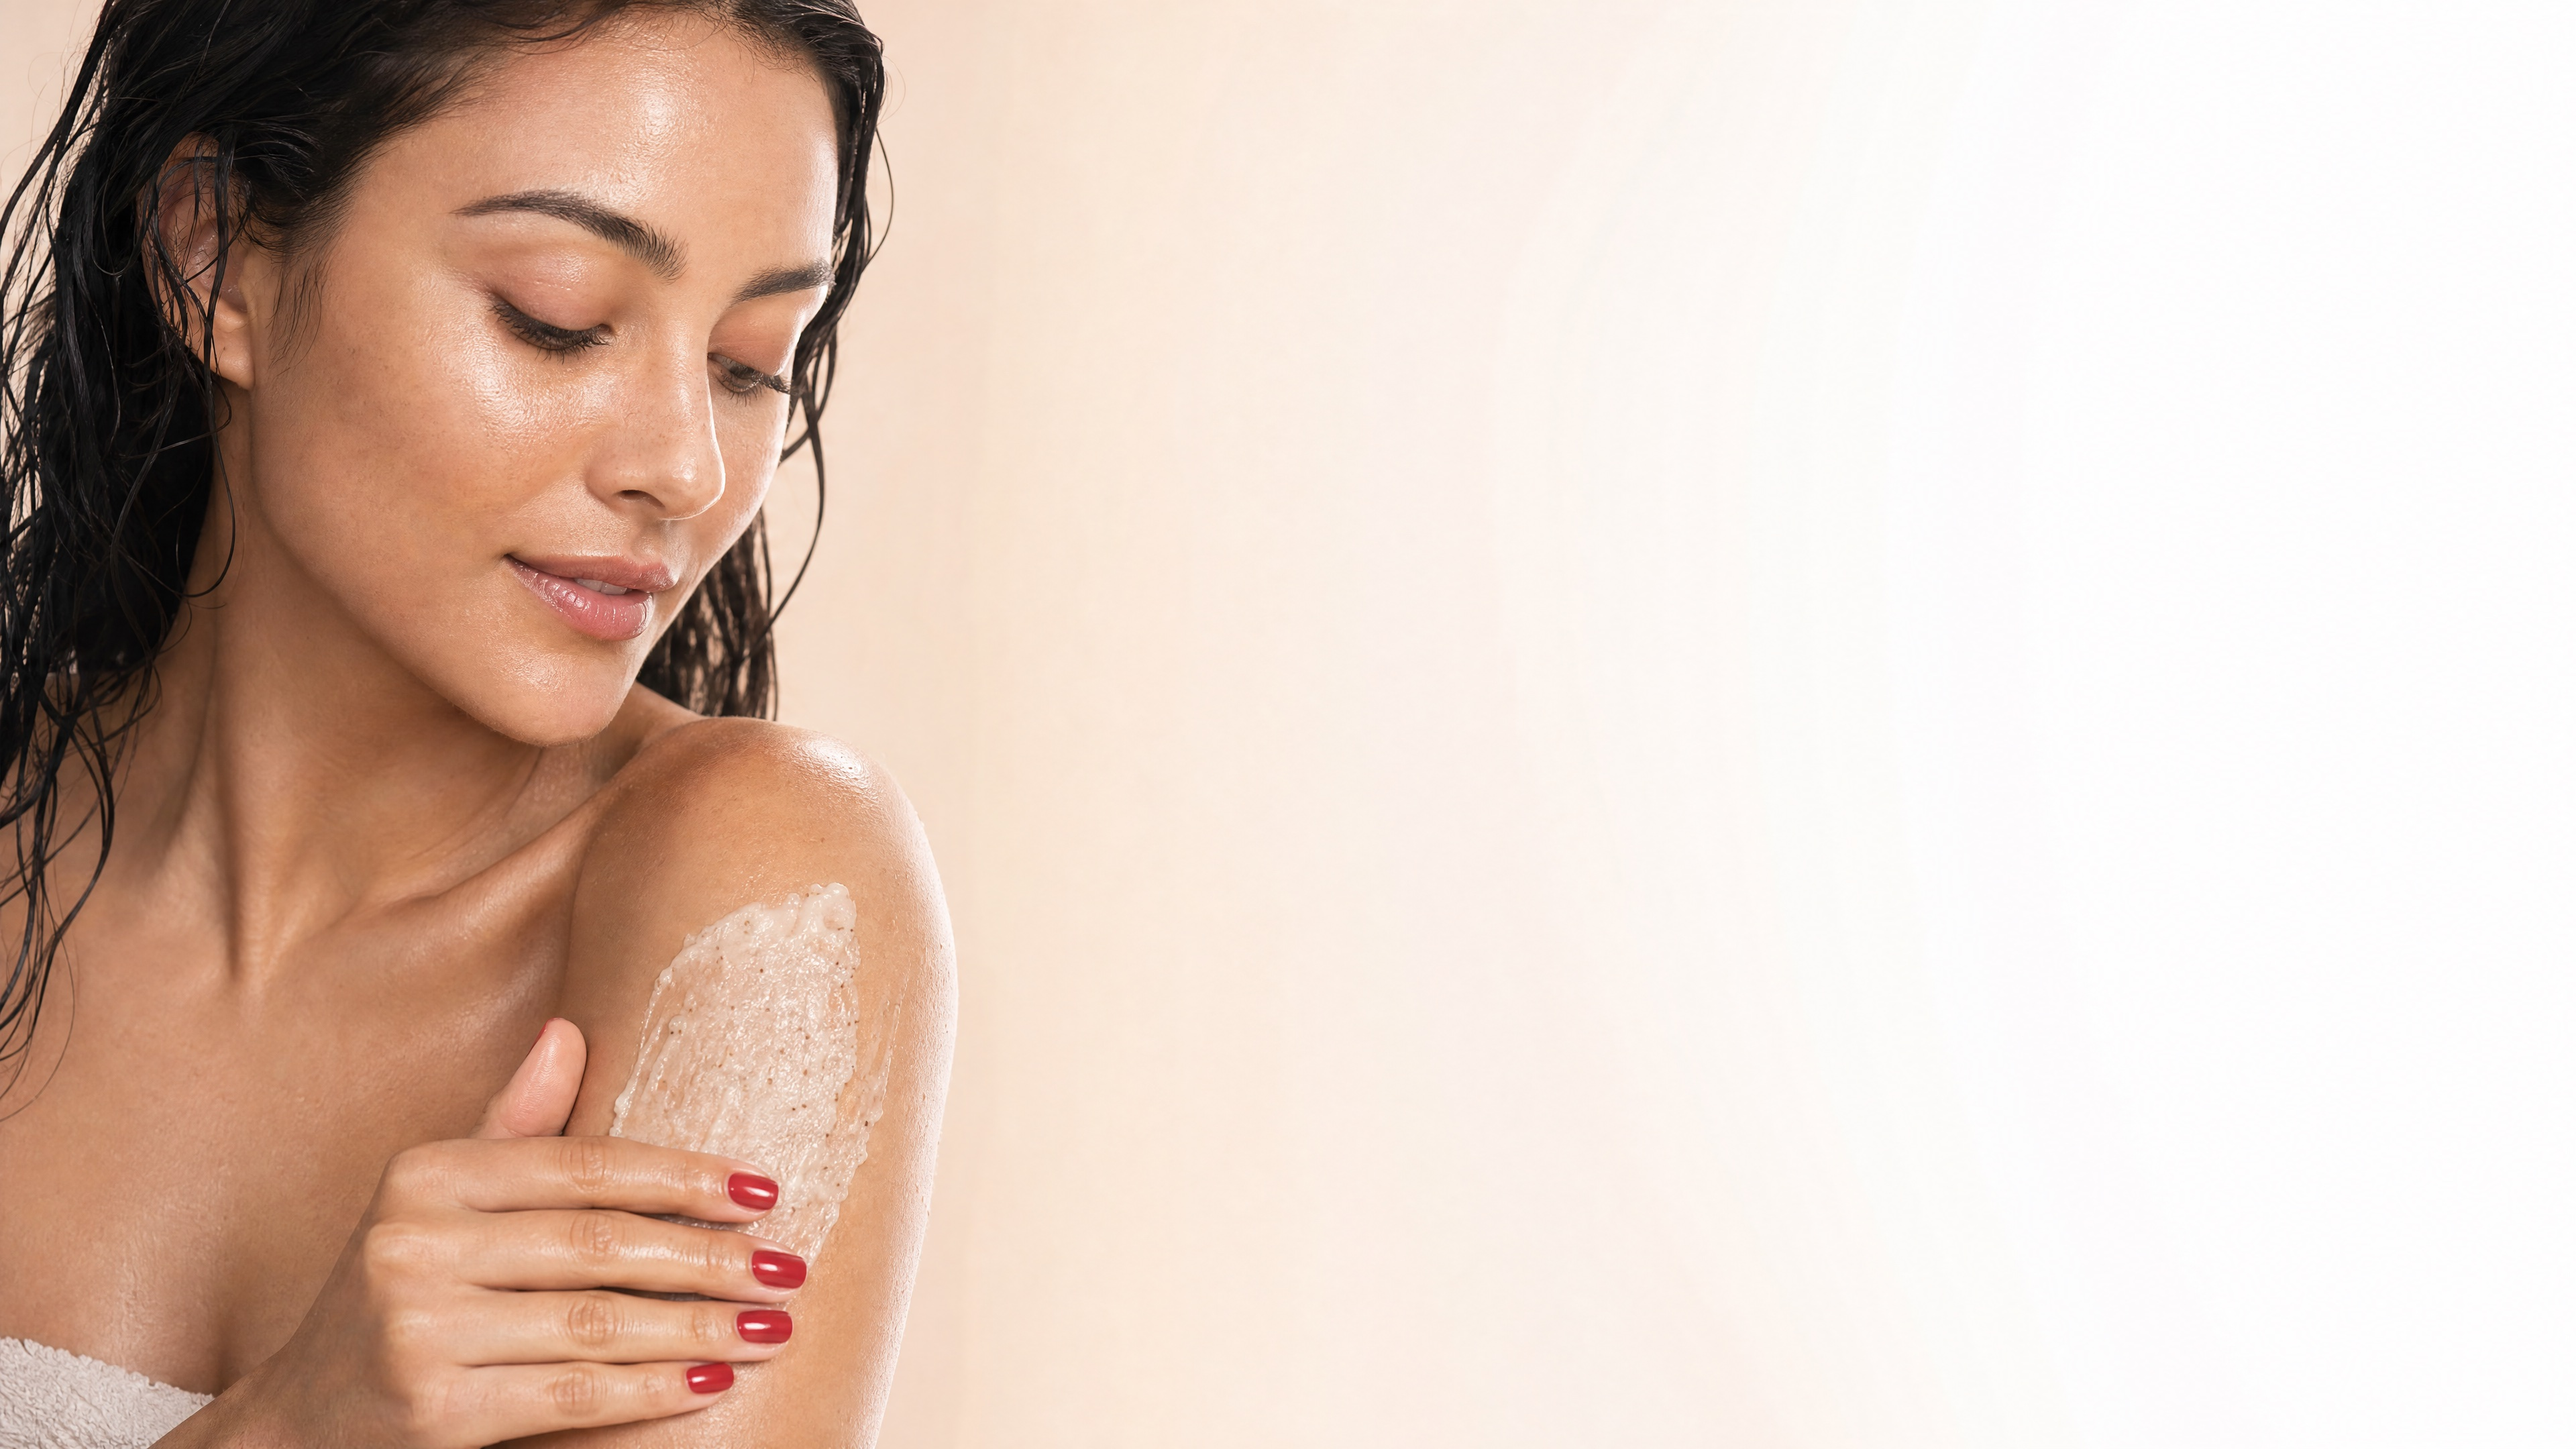
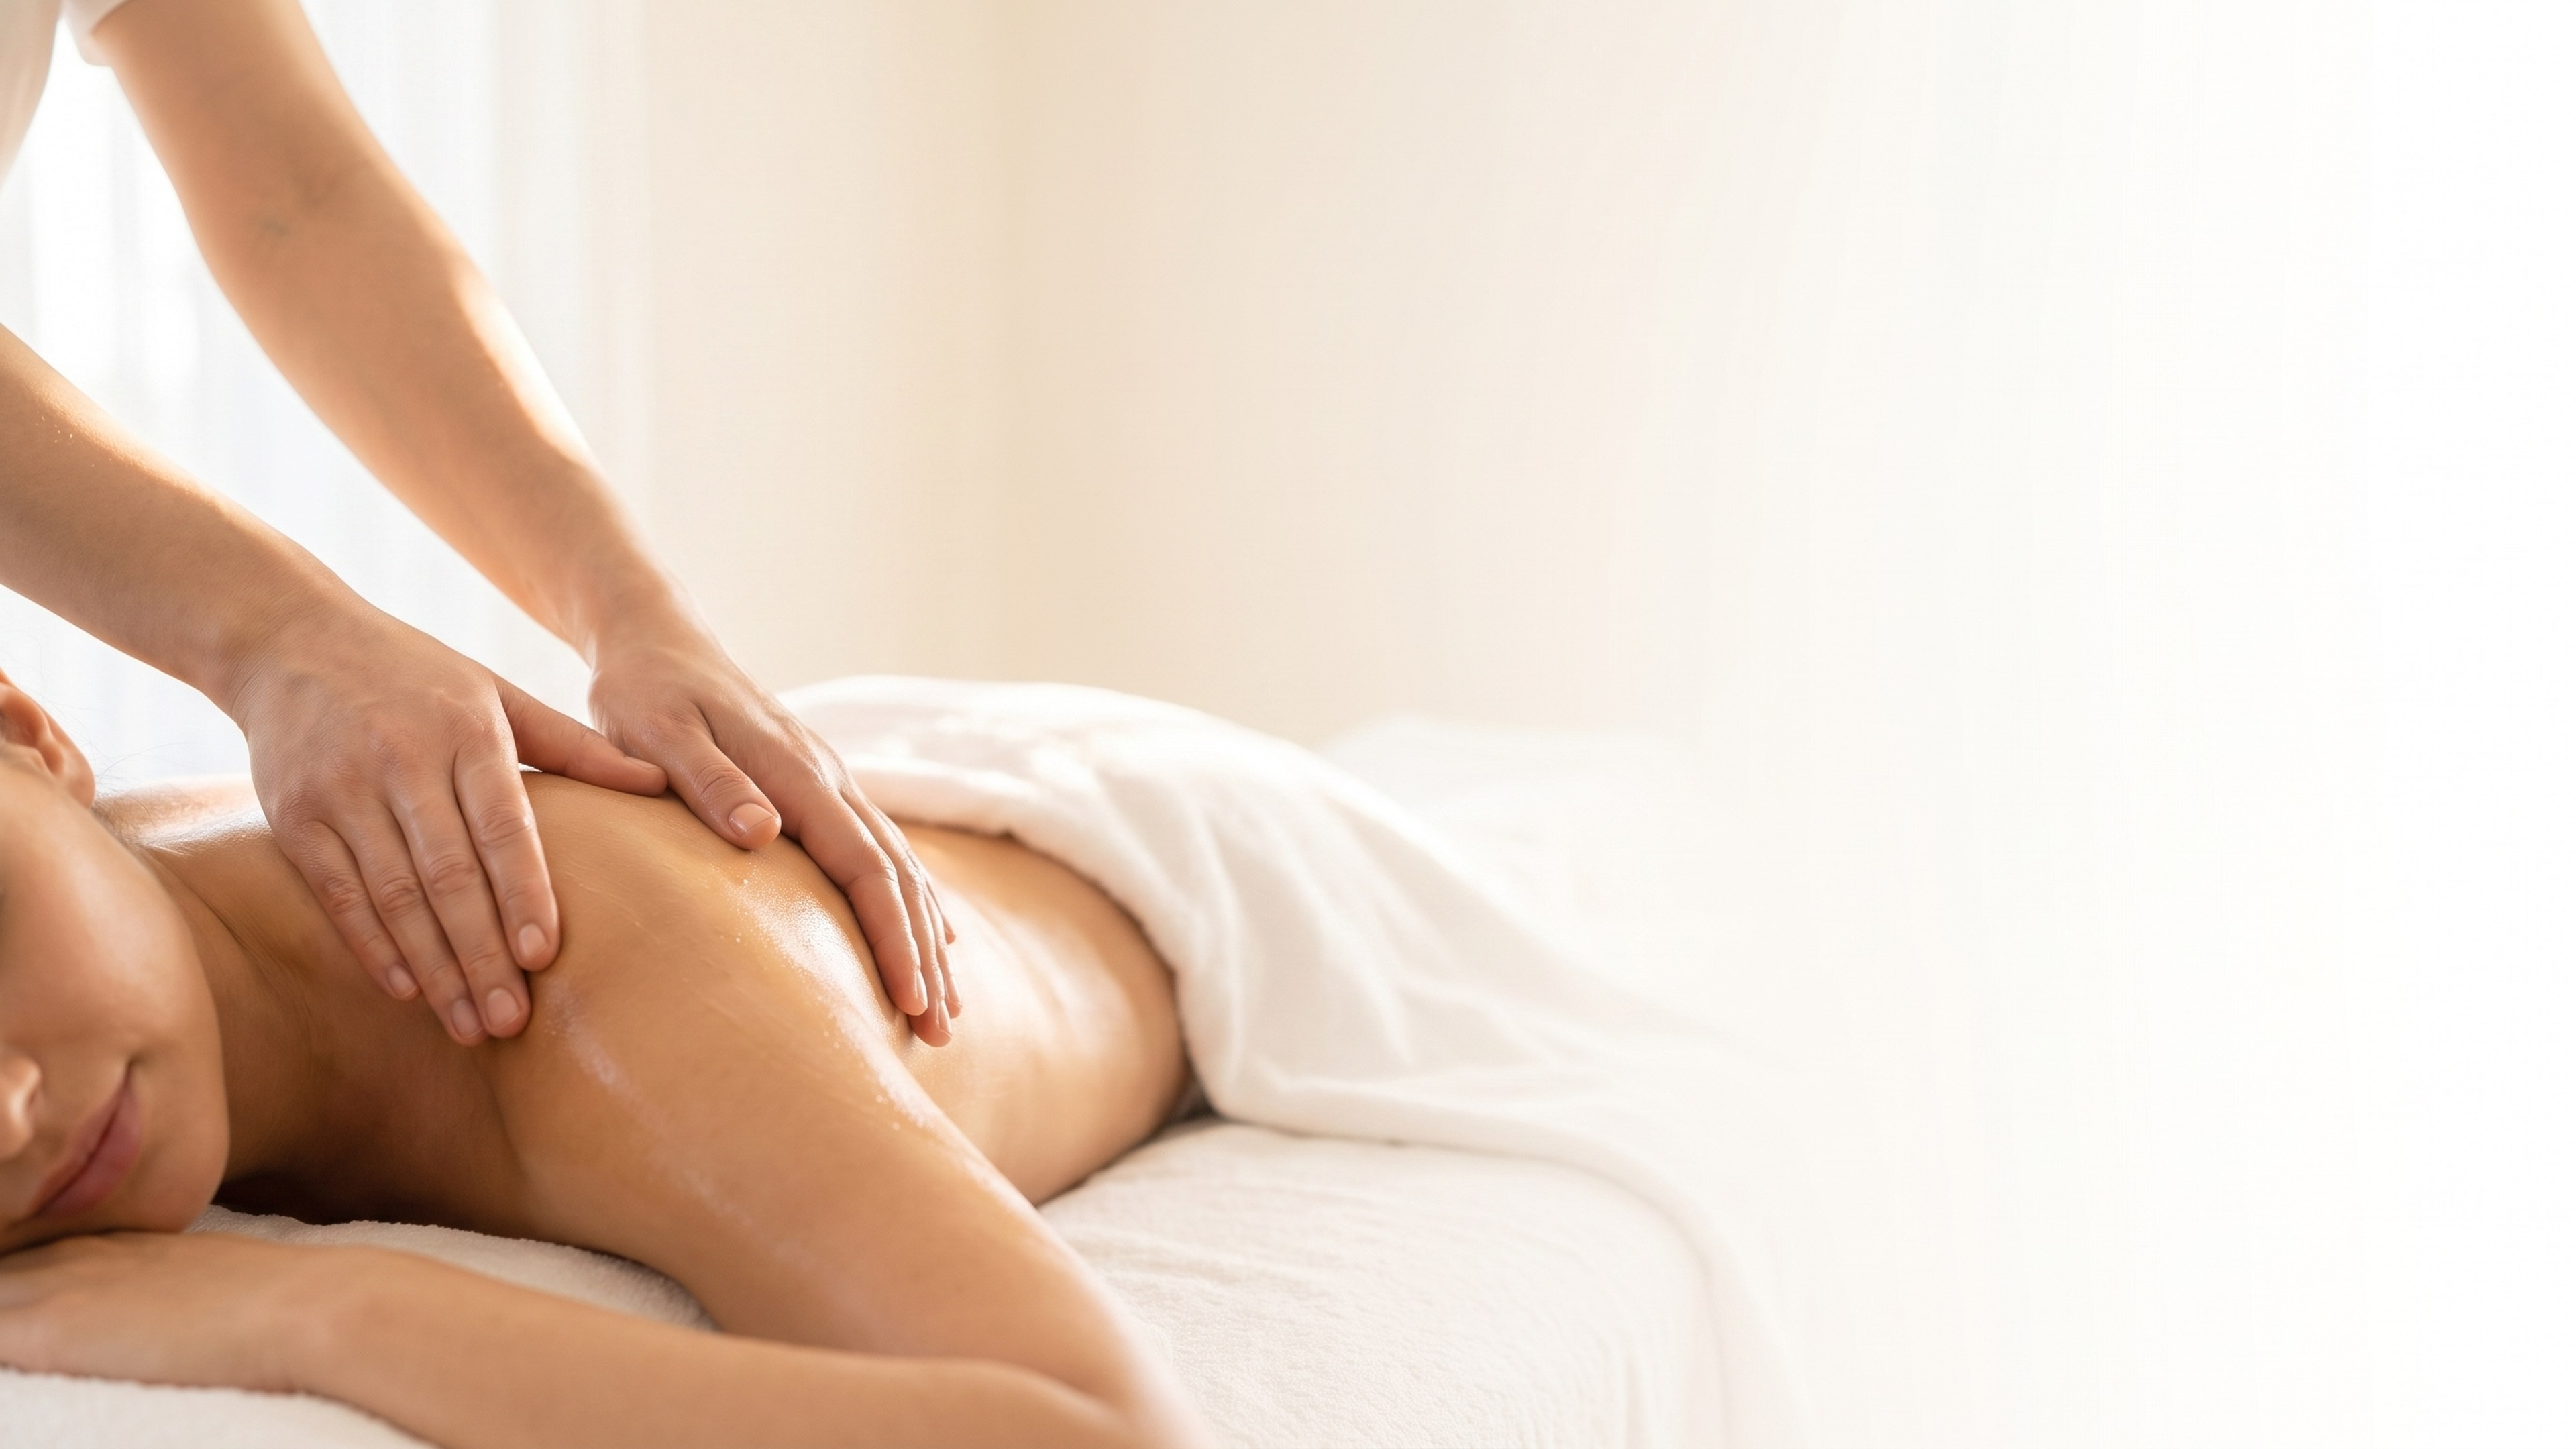
Cutie Care: juli-erbjudande i hero — Oljemassage & Thaimassage + nya hero-bilder
Bytte hero-text till juli-erbjudandet (Oljemassage + Thaimassage, −20%, från
Denisa) och nya ljusa oljemassage-hero-bilder (desktop 16:9 + mobil 9:16).

diff --git a/index.html b/index.html
@@ -151,18 +151,18 @@
   <div class="hero-promo__overlay"></div>
 
   <div class="hero-promo__content">
-    <span class="hero-promo__eyebrow">Juni Erbjudande &middot; &minus;20% &middot; M&aring;n&ndash;Tors</span>
+    <span class="hero-promo__eyebrow">Juli Erbjudande &middot; &minus;20% &middot; M&aring;n&ndash;Tors</span>
     <h1 class="hero-promo__title">
-      Massage<br />&amp; Body Scrub
+      Oljemassage<br />&amp; Thaimassage
     </h1>
     <ul class="hero-promo__offers">
       <li class="hero-promo__offer">
-        <span class="hero-promo__offer-name">Aromatherapy Massage</span>
+        <span class="hero-promo__offer-name">Oljemassage</span>
         <span class="hero-promo__offer-price">55 min <s>995</s> <strong>796 kr</strong> &middot; 85 min <s>1&thinsp;395</s> <strong>1&thinsp;116 kr</strong></span>
       </li>
       <li class="hero-promo__offer">
-        <span class="hero-promo__offer-name">Coconut Body Scrub &amp; Massage</span>
-        <span class="hero-promo__offer-price">55 min <s>1&thinsp;195</s> <strong>956 kr</strong> &middot; 85 min <s>1&thinsp;495</s> <strong>1&thinsp;196 kr</strong></span>
+        <span class="hero-promo__offer-name">Thaimassage</span>
+        <span class="hero-promo__offer-price">55 min <s>995</s> <strong>796 kr</strong> &middot; 85 min <s>1&thinsp;395</s> <strong>1&thinsp;116 kr</strong></span>
       </li>
     </ul>
     <a href="boka" class="hero-promo__link">